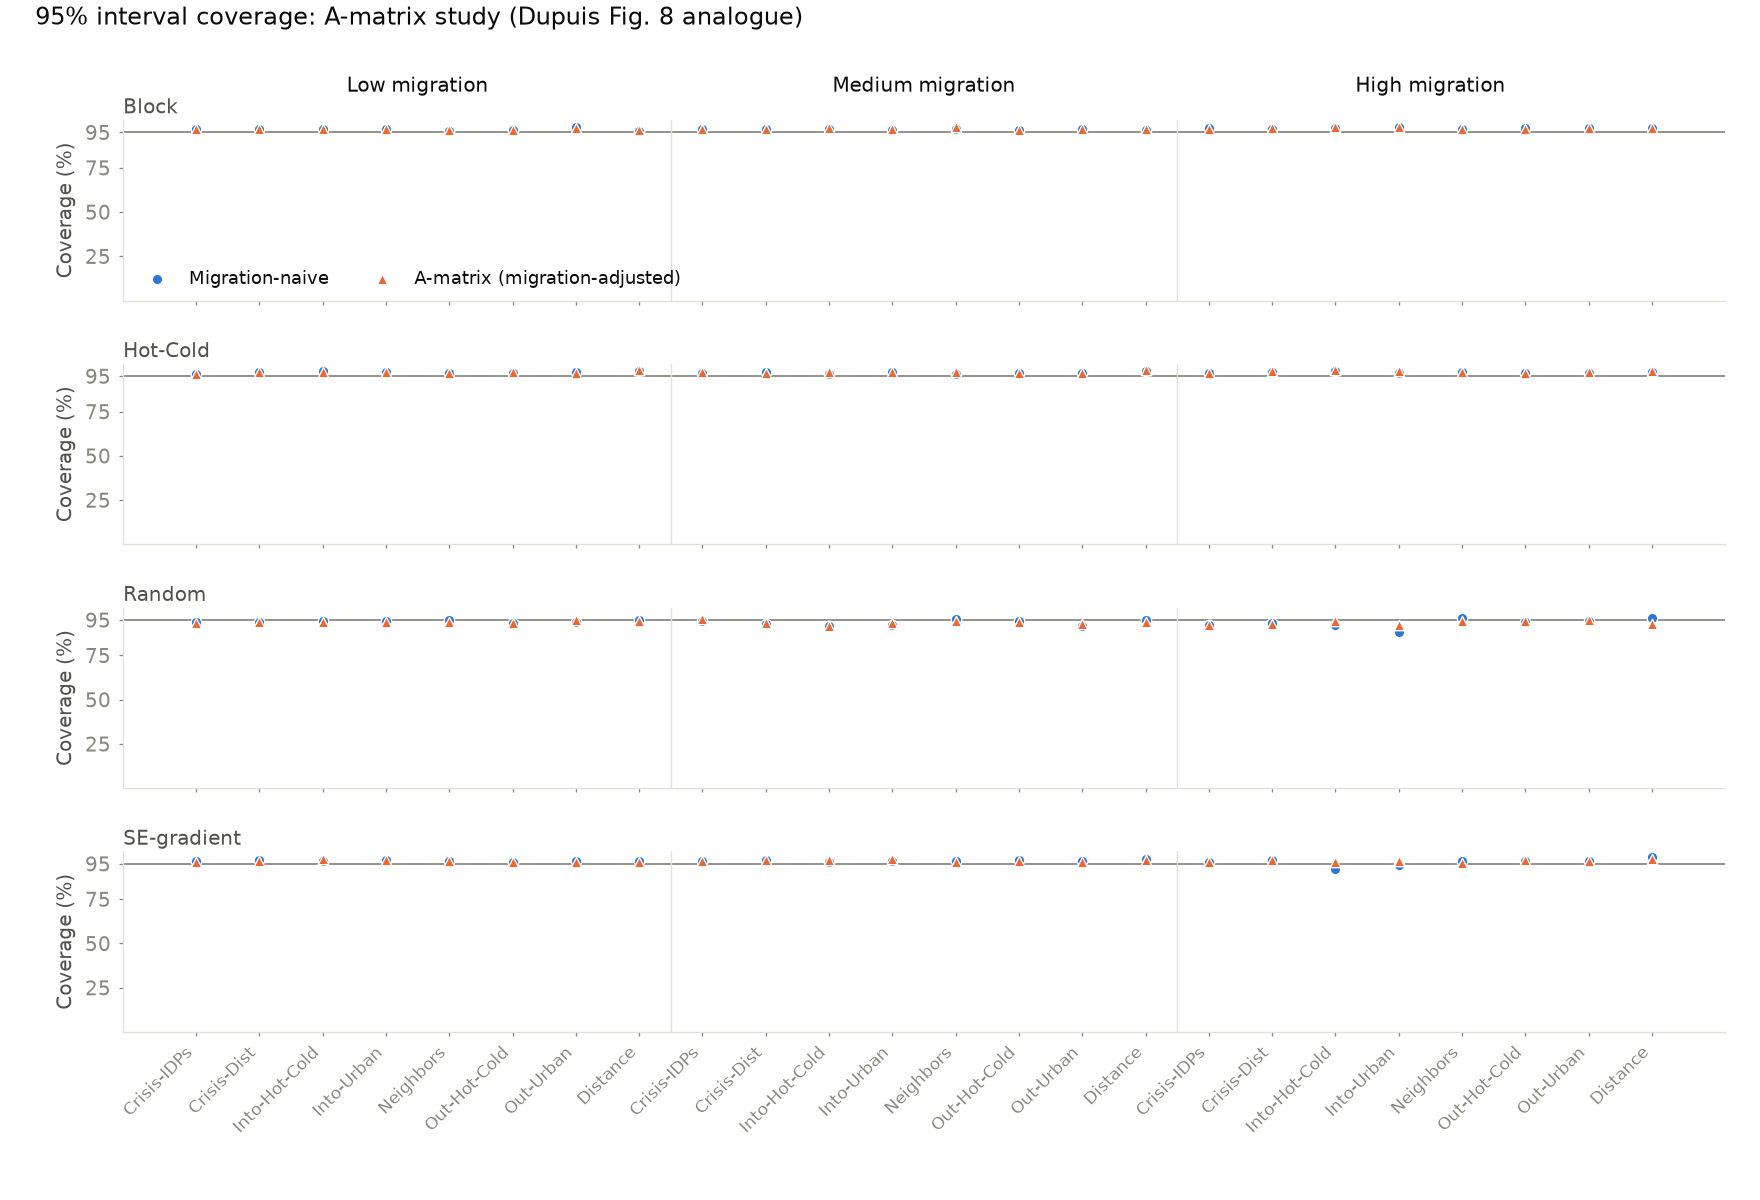
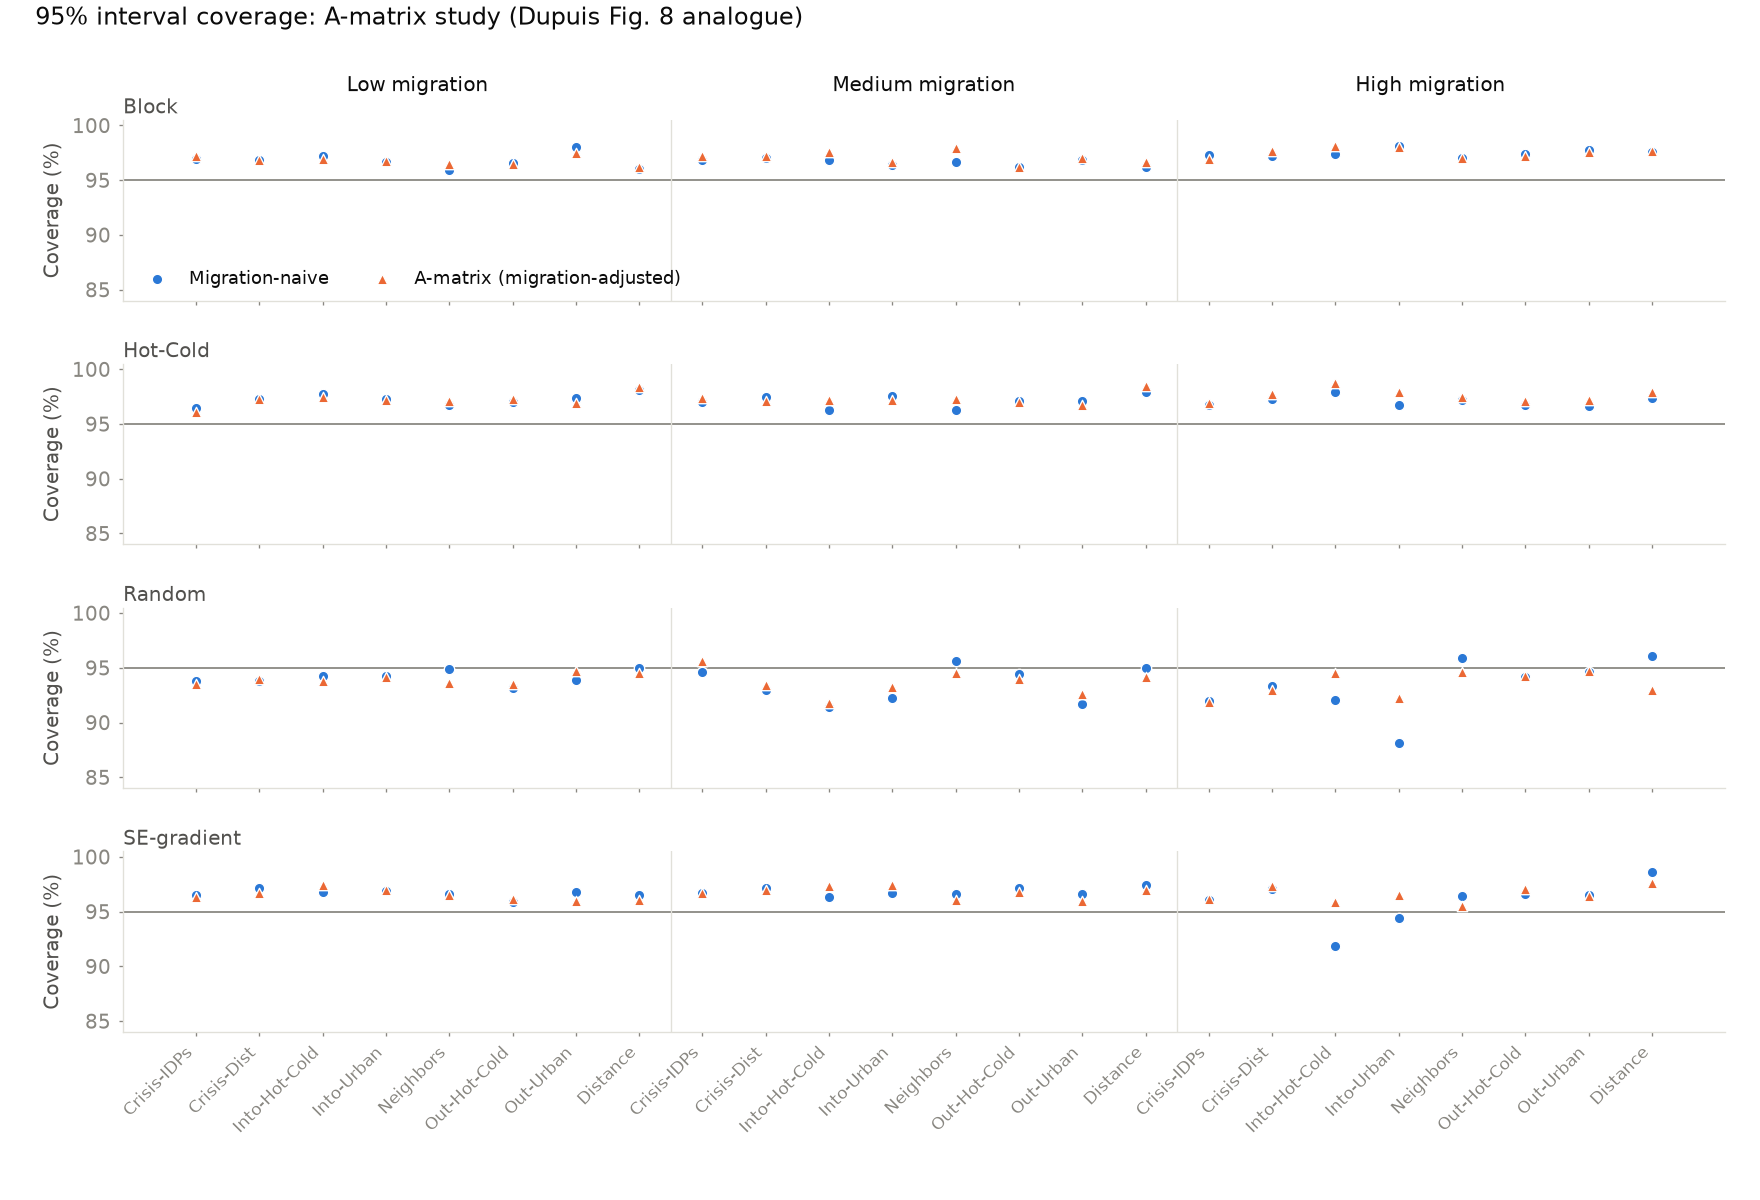
migration_sae_replication: zoom the A-matrix coverage figure
Claude-Session: https://claude.ai/code/session_01263Vm5huK1NBxfJLKU5s66

diff --git a/migration_sae_replication/make_figures.py b/migration_sae_replication/make_figures.py
@@ -117,7 +117,7 @@ def heatmap_grid_abs_bias(scen, method, path, title, reference="naive"):
 
 
 # ----------------------------------------------------------------------------- coverage dots
-def coverage_dots(scen, methods, labels, path, title):
+def coverage_dots(scen, methods, labels, path, title, ylim=(0, 102), yticks=(25, 50, 75, 95)):
     scen = scen.copy()
     scen["scenario"] = scen["level"].map({"low": 0, "medium": 1, "high": 2}) * len(PATTERNS) + scen["pattern"].map(PATTERNS.index)
     fig, axes = plt.subplots(len(BASES), 1, figsize=(11, 7.5), sharex=True, sharey=True)
@@ -134,13 +134,14 @@ def coverage_dots(scen, methods, labels, path, title):
                        edgecolor="white", linewidth=0.6, label=labels[m], zorder=3)
         ax.set_ylabel("Coverage (%)")
         ax.set_title(BASE_LABELS[base], loc="left", fontsize=9, color=INK2, pad=3)
-        ax.set_ylim(0, 102)
-        ax.set_yticks([25, 50, 75, 95])
+        ax.set_ylim(*ylim)
+        ax.set_yticks(list(yticks))
         _style_ax(ax)
     axes[-1].set_xticks(range(3 * len(PATTERNS)))
     axes[-1].set_xticklabels([PATTERN_LABELS[p] for _ in LEVELS for p in PATTERNS], rotation=45, ha="right", fontsize=7.5)
     for k, level in enumerate(LEVELS):
-        axes[0].text(k * len(PATTERNS) + len(PATTERNS) / 2 - 0.5, 118, LEVEL_LABELS[level], ha="center", fontsize=9, color=INK)
+        axes[0].text(k * len(PATTERNS) + len(PATTERNS) / 2 - 0.5, ylim[1] + 0.16 * (ylim[1] - ylim[0]), LEVEL_LABELS[level],
+                     ha="center", fontsize=9, color=INK)
     axes[0].legend(loc="lower left", frameon=False, fontsize=8, ncol=2, bbox_to_anchor=(0.0, -0.02))
     fig.suptitle(title, fontsize=11, x=0.02, ha="left", y=0.995)
     fig.subplots_adjust(top=0.9, bottom=0.14, left=0.07, right=0.98, hspace=0.35)
@@ -258,7 +259,8 @@ def main(which):
                   ["naive", "amatrix"], {"naive": "Migration-naive", "amatrix": "A-matrix"}, OUT / "fig7_estimation_rmse_maps.png",
                   "District RMSE, SE-gradient base, medium migration (Dupuis Fig. 7 analogue)")
         coverage_dots(scen, ["naive", "amatrix"], {"naive": "Migration-naive", "amatrix": "A-matrix (migration-adjusted)"},
-                      OUT / "fig8_estimation_coverage.png", "95% interval coverage: A-matrix study (Dupuis Fig. 8 analogue)")
+                      OUT / "fig8_estimation_coverage.png", "95% interval coverage: A-matrix study (Dupuis Fig. 8 analogue)",
+                      ylim=(84, 100.5), yticks=(85, 90, 95, 100))
     if "headtohead" in which:
         raw = pd.read_parquet("results/raw/headtohead.parquet")
         scen, per_district = scenario_metrics(raw)
